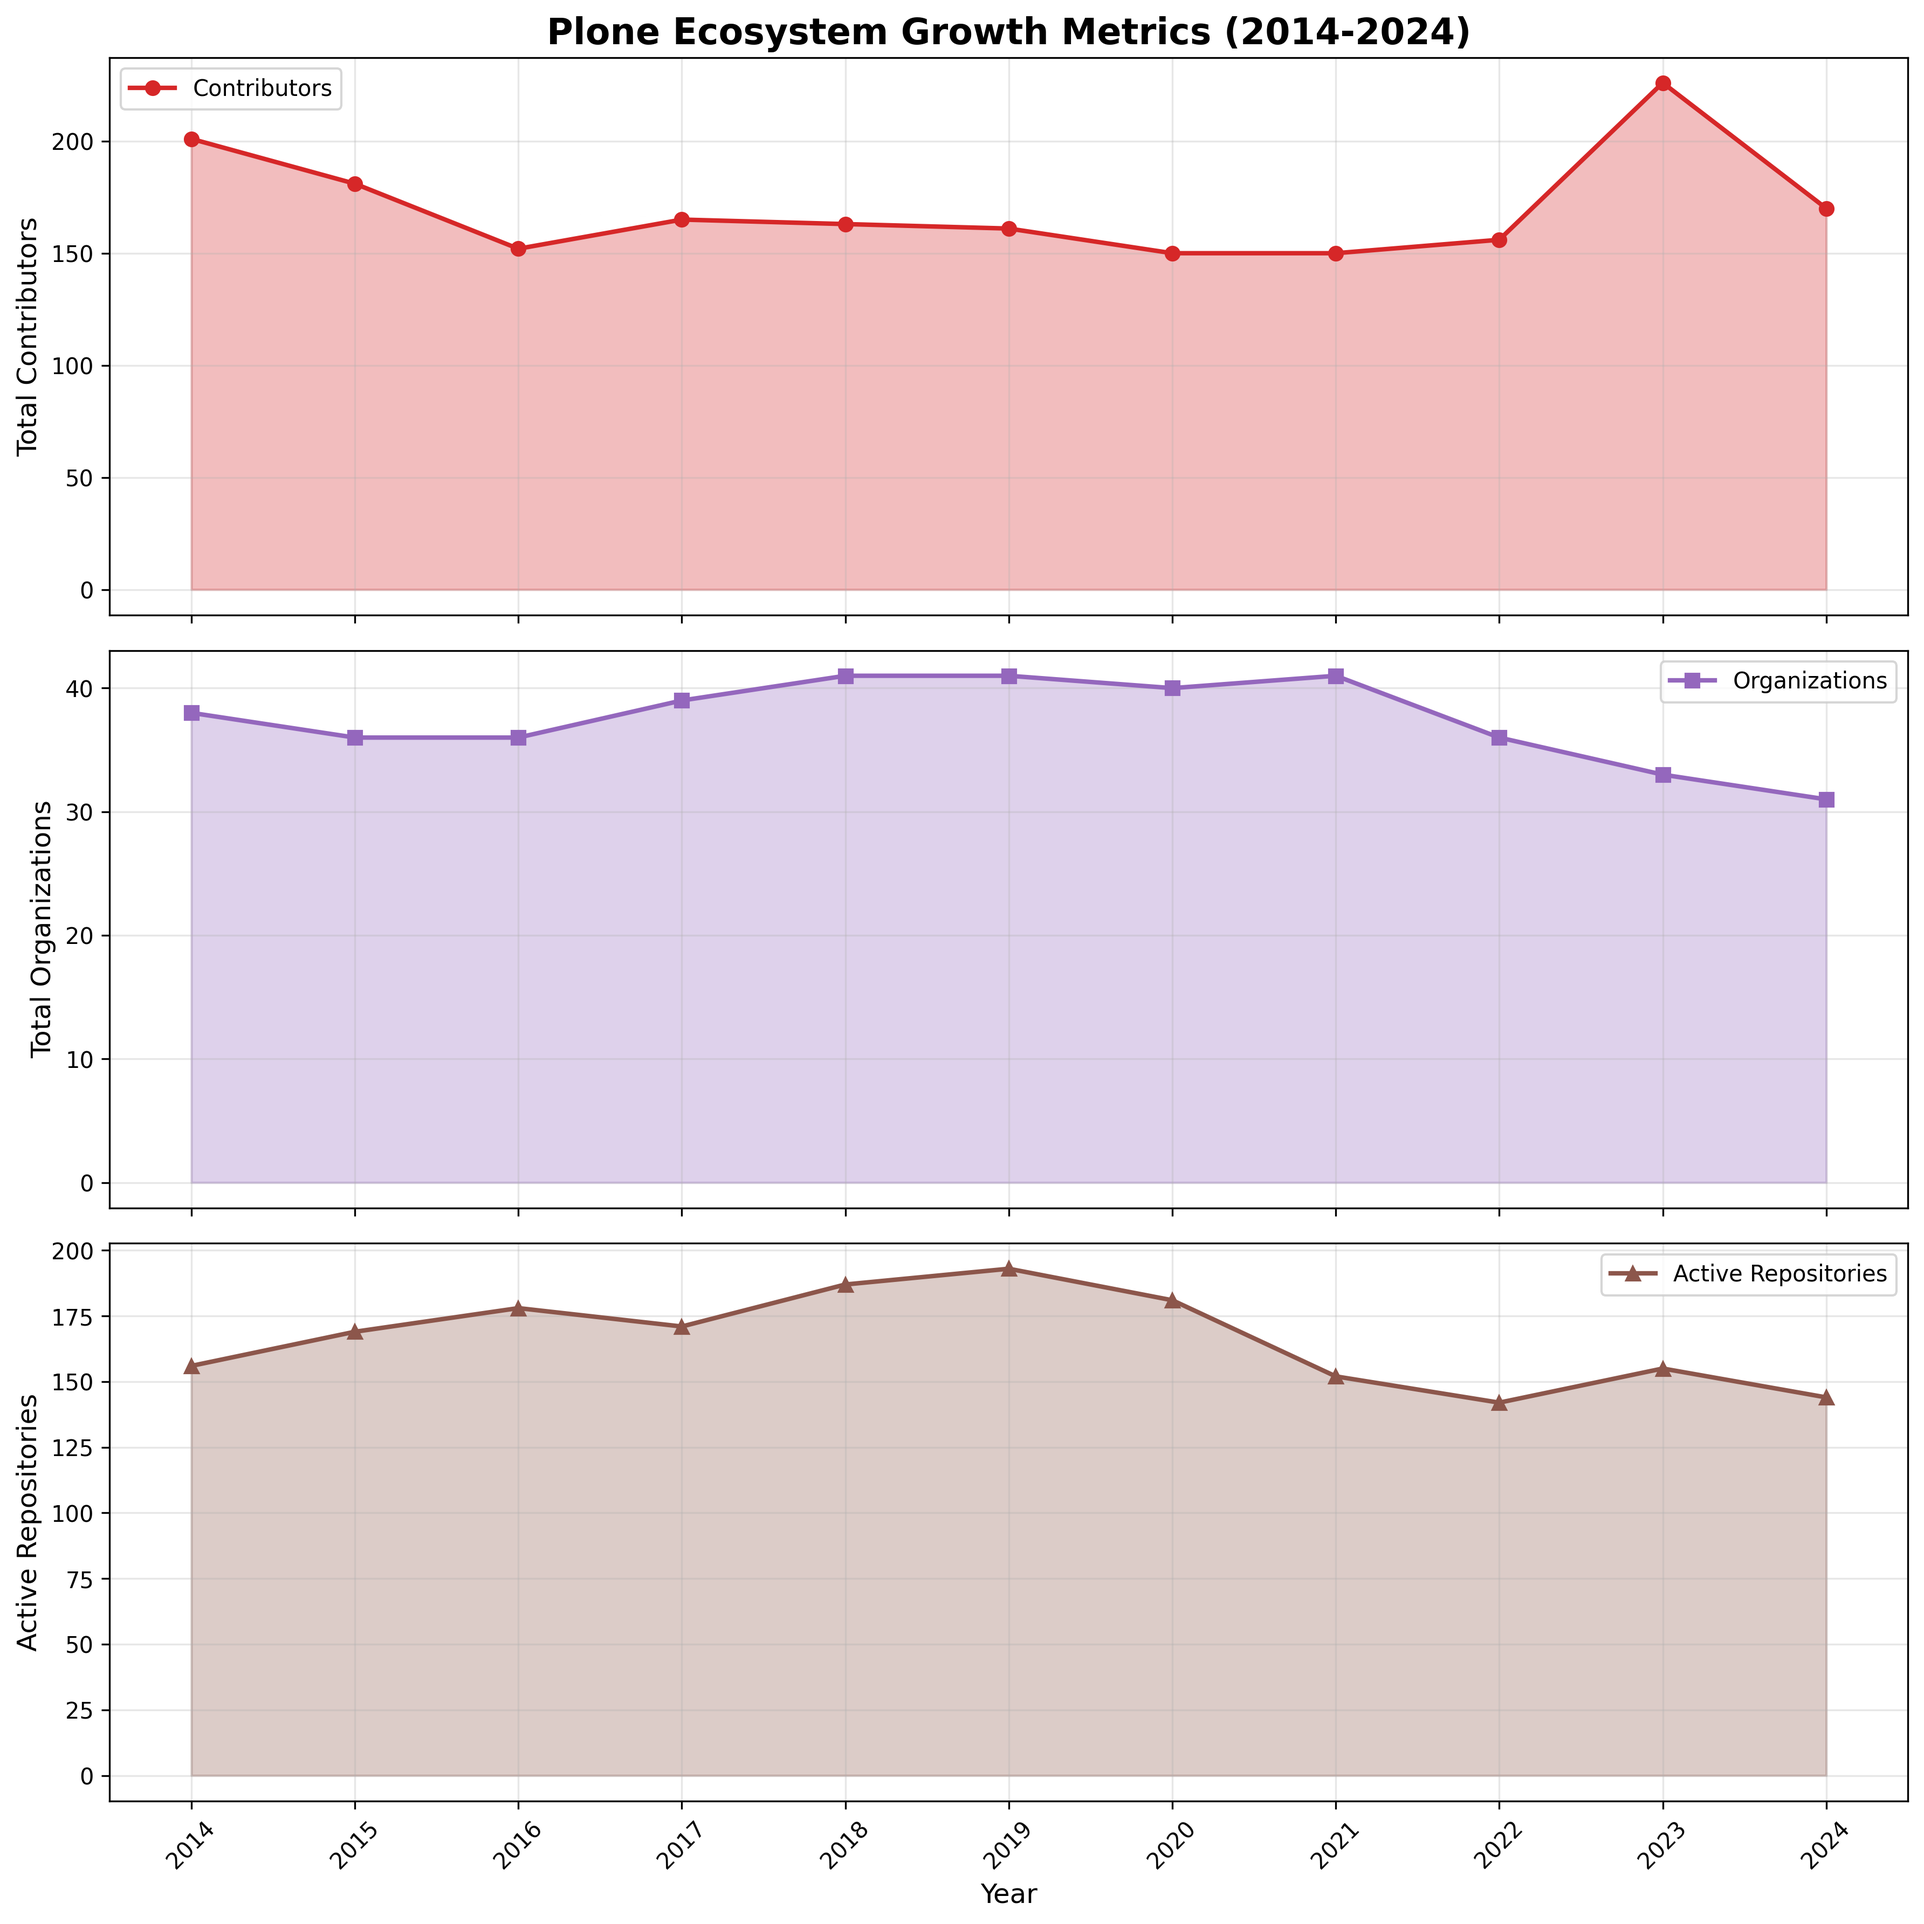
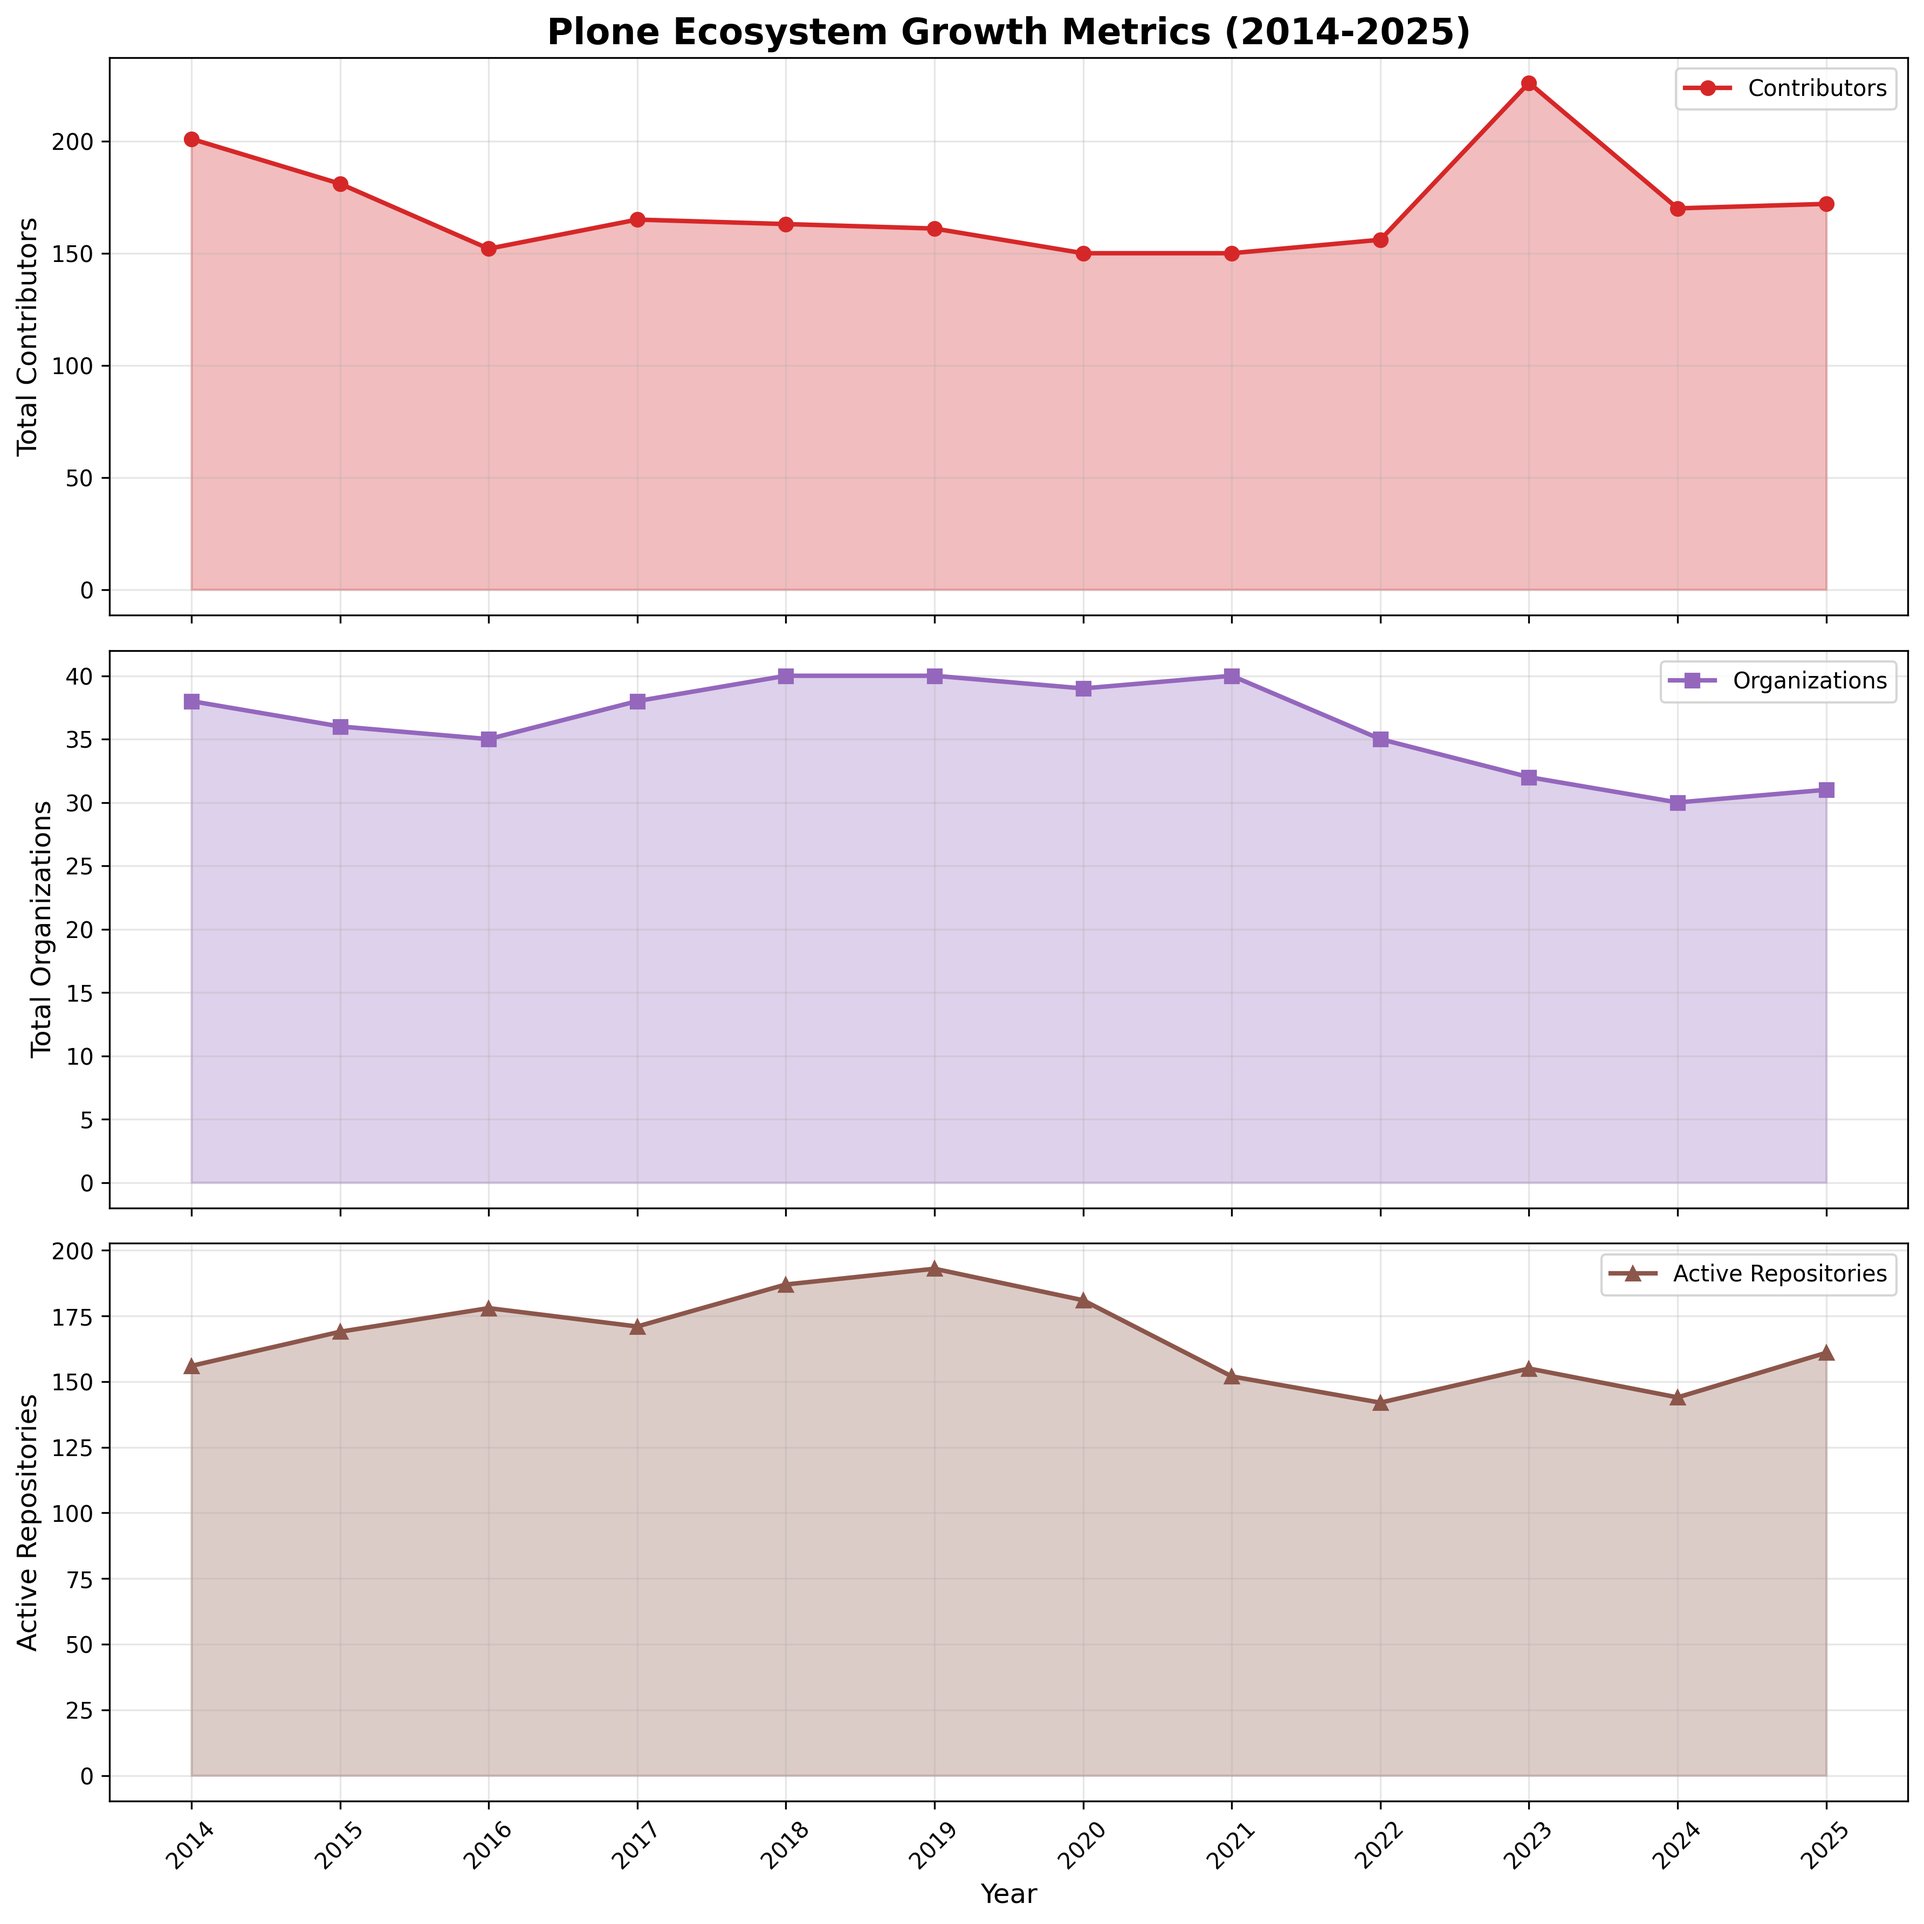
Add misssing scripts to generate yearly-graphs and update the graphs folder output

diff --git a/generate_yearly_graphs.py b/generate_yearly_graphs.py
@@ -56,26 +56,27 @@ def load_yearly_data():
     
     df = pd.read_csv(csv_file)
     df['year_date'] = pd.to_datetime(df['year'], format='%Y')
-    
-    # Filter to only include years 2014-2024
-    df = df[(df['year'] >= 2014) & (df['year'] <= 2024)]
-    
+
+    # Filter to only include years 2014 onwards
+    df = df[df['year'] >= 2014]
+
     return df
 
 
 def create_commits_trend_graph(df, output_dir="graphs"):
     """Create commits trend graph."""
     Path(output_dir).mkdir(exist_ok=True)
-    
+    year_range = f"{df['year'].min()}-{df['year'].max()}"
+
     fig, ax = plt.subplots(figsize=(12, 8))
-    
+
     # Commits trend
-    ax.plot(df['year'], df['total_commits'], marker='o', linewidth=3, markersize=8, 
+    ax.plot(df['year'], df['total_commits'], marker='o', linewidth=3, markersize=8,
              color='#1f77b4', label='Total Commits')
     ax.fill_between(df['year'], df['total_commits'], alpha=0.3, color='#1f77b4')
     ax.set_ylabel('Total Commits', fontsize=14)
     ax.set_xlabel('Year', fontsize=14)
-    ax.set_title('Plone Ecosystem - Commits Over Time (2014-2024)', fontsize=16, fontweight='bold')
+    ax.set_title(f'Plone Ecosystem - Commits Over Time ({year_range})', fontsize=16, fontweight='bold')
     ax.grid(True, alpha=0.3)
     ax.legend(fontsize=12)
     
@@ -125,16 +126,17 @@ def create_commits_trend_graph(df, output_dir="graphs"):
 def create_prs_trend_graph(df, output_dir="graphs"):
     """Create pull requests trend graph."""
     Path(output_dir).mkdir(exist_ok=True)
-    
+    year_range = f"{df['year'].min()}-{df['year'].max()}"
+
     fig, ax = plt.subplots(figsize=(12, 8))
-    
+
     # PRs trend
-    ax.plot(df['year'], df['total_pull_requests'], marker='s', linewidth=3, markersize=8, 
+    ax.plot(df['year'], df['total_pull_requests'], marker='s', linewidth=3, markersize=8,
              color='#ff7f0e', label='Total Pull Requests')
     ax.fill_between(df['year'], df['total_pull_requests'], alpha=0.3, color='#ff7f0e')
     ax.set_ylabel('Total Pull Requests', fontsize=14)
     ax.set_xlabel('Year', fontsize=14)
-    ax.set_title('Plone Ecosystem - Pull Requests Over Time (2014-2024)', fontsize=16, fontweight='bold')
+    ax.set_title(f'Plone Ecosystem - Pull Requests Over Time ({year_range})', fontsize=16, fontweight='bold')
     ax.grid(True, alpha=0.3)
     ax.legend(fontsize=12)
     
@@ -190,15 +192,16 @@ def create_prs_trend_graph(df, output_dir="graphs"):
 def create_commits_prs_trend_graph(df, output_dir="graphs"):
     """Create combined commits and PRs trend graph."""
     Path(output_dir).mkdir(exist_ok=True)
-    
+    year_range = f"{df['year'].min()}-{df['year'].max()}"
+
     fig, (ax1, ax2) = plt.subplots(2, 1, figsize=(12, 10), sharex=True)
-    
+
     # Commits trend
-    ax1.plot(df['year'], df['total_commits'], marker='o', linewidth=2, markersize=6, 
+    ax1.plot(df['year'], df['total_commits'], marker='o', linewidth=2, markersize=6,
              color='#1f77b4', label='Commits')
     ax1.fill_between(df['year'], df['total_commits'], alpha=0.3, color='#1f77b4')
     ax1.set_ylabel('Total Commits')
-    ax1.set_title('Plone Ecosystem Development Activity (2014-2024)', fontsize=16, fontweight='bold')
+    ax1.set_title(f'Plone Ecosystem Development Activity ({year_range})', fontsize=16, fontweight='bold')
     ax1.grid(True, alpha=0.3)
     ax1.legend()
     
@@ -274,7 +277,8 @@ def create_pr_adoption_graph(df, output_dir="graphs"):
     
     ax.set_ylabel('PR/Commit Ratio (%)')
     ax.set_xlabel('Year')
-    ax.set_title('Pull Request Adoption in Plone Development (2014-2024)', 
+    year_range = f"{df['year'].min()}-{df['year'].max()}"
+    ax.set_title(f'Pull Request Adoption in Plone Development ({year_range})',
                 fontsize=16, fontweight='bold')
     ax.grid(True, alpha=0.3)
     ax.legend()
@@ -314,15 +318,16 @@ def create_pr_adoption_graph(df, output_dir="graphs"):
 def create_ecosystem_growth_graph(df, output_dir="graphs"):
     """Create ecosystem growth graph (contributors, orgs, repos)."""
     Path(output_dir).mkdir(exist_ok=True)
-    
+    year_range = f"{df['year'].min()}-{df['year'].max()}"
+
     fig, (ax1, ax2, ax3) = plt.subplots(3, 1, figsize=(12, 12), sharex=True)
-    
+
     # Contributors
-    ax1.plot(df['year'], df['total_contributors'], marker='o', linewidth=2, markersize=6, 
+    ax1.plot(df['year'], df['total_contributors'], marker='o', linewidth=2, markersize=6,
              color='#d62728', label='Contributors')
     ax1.fill_between(df['year'], df['total_contributors'], alpha=0.3, color='#d62728')
     ax1.set_ylabel('Total Contributors')
-    ax1.set_title('Plone Ecosystem Growth Metrics (2014-2024)', fontsize=16, fontweight='bold')
+    ax1.set_title(f'Plone Ecosystem Growth Metrics ({year_range})', fontsize=16, fontweight='bold')
     ax1.grid(True, alpha=0.3)
     ax1.legend()
     
@@ -377,7 +382,8 @@ def create_growth_rates_heatmap(df, output_dir="graphs"):
     sns.heatmap(growth_data, annot=True, fmt='.1f', cmap='RdYlGn', center=0, 
                 ax=ax, cbar_kws={'label': 'Growth Rate (%)'})
     
-    ax.set_title('Year-over-Year Growth Rates in Plone Development (2015-2024)', 
+    growth_year_range = f"{int(growth_data.columns.min())}-{int(growth_data.columns.max())}"
+    ax.set_title(f'Year-over-Year Growth Rates in Plone Development ({growth_year_range})',
                 fontsize=16, fontweight='bold')
     ax.set_xlabel('Year')
     ax.set_ylabel('Metric')
@@ -394,15 +400,16 @@ def create_growth_rates_heatmap(df, output_dir="graphs"):
 def create_productivity_metrics_graph(df, output_dir="graphs"):
     """Create productivity metrics graph."""
     Path(output_dir).mkdir(exist_ok=True)
-    
+    year_range = f"{df['year'].min()}-{df['year'].max()}"
+
     fig, (ax1, ax2) = plt.subplots(2, 1, figsize=(12, 10), sharex=True)
-    
+
     # Commits per contributor
-    ax1.plot(df['year'], df['commits_per_contributor'], marker='o', linewidth=2, markersize=6, 
+    ax1.plot(df['year'], df['commits_per_contributor'], marker='o', linewidth=2, markersize=6,
              color='#17becf', label='Commits per Contributor')
     ax1.fill_between(df['year'], df['commits_per_contributor'], alpha=0.3, color='#17becf')
     ax1.set_ylabel('Commits per Contributor')
-    ax1.set_title('Developer Productivity Metrics (2014-2024)', fontsize=16, fontweight='bold')
+    ax1.set_title(f'Developer Productivity Metrics ({year_range})', fontsize=16, fontweight='bold')
     ax1.grid(True, alpha=0.3)
     ax1.legend()
     
@@ -500,7 +507,8 @@ def create_combined_overview_graph(df, output_dir="graphs"):
         ax.set_xticklabels(years, rotation=45)
     
     # Main title
-    fig.suptitle('Plone Ecosystem Development Overview (2014-2024)', 
+    year_range = f"{df['year'].min()}-{df['year'].max()}"
+    fig.suptitle(f'Plone Ecosystem Development Overview ({year_range})',
                 fontsize=18, fontweight='bold', y=0.98)
     
     output_file = f"{output_dir}/yearly_activity_overview.png"

diff --git a/yearly_activity_analysis.py b/yearly_activity_analysis.py
@@ -1,0 +1,102 @@
+#!/usr/bin/env python3
+"""
+Yearly Activity Analysis for Plone GitHub Statistics
+
+Aggregates per-year contributor and organisation CSV files into a single
+yearly-activity-statistics.csv for use by the graph generator.
+"""
+
+import pandas as pd
+from pathlib import Path
+import glob
+
+
+def main():
+    print("Plone Yearly Activity Analysis")
+    print("=" * 40)
+
+    rows = []
+
+    # Find all yearly contributor CSV files
+    contributor_files = sorted(glob.glob("[0-9][0-9][0-9][0-9]-plone-contributors.csv"))
+
+    if not contributor_files:
+        print("No yearly contributor CSV files found!")
+        return 1
+
+    for contrib_file in contributor_files:
+        year = int(Path(contrib_file).name.split("-")[0])
+        org_file = f"{year}-plone-organisation-contributors.csv"
+
+        # Load contributor data
+        try:
+            contrib_df = pd.read_csv(contrib_file)
+        except Exception as e:
+            print(f"  Skipping {year}: error reading {contrib_file}: {e}")
+            continue
+
+        total_commits = int(contrib_df["total_commits"].sum())
+        total_prs = int(contrib_df["total_pull_requests"].sum())
+        total_contributors = len(contrib_df)
+
+        # Count unique repositories across all contributors
+        unique_repos = set()
+        for repos_str in contrib_df["repositories"].dropna():
+            for repo in str(repos_str).split(", "):
+                repo = repo.strip()
+                if repo:
+                    unique_repos.add(repo)
+
+        # Load organisation data if available
+        total_orgs = 0
+        if Path(org_file).exists():
+            try:
+                org_df = pd.read_csv(org_file)
+                total_orgs = len(org_df)
+            except Exception:
+                pass
+
+        pr_to_commit_ratio = (total_prs / total_commits * 100) if total_commits > 0 else 0
+        commits_per_contributor = (total_commits / total_contributors) if total_contributors > 0 else 0
+        prs_per_contributor = (total_prs / total_contributors) if total_contributors > 0 else 0
+
+        rows.append({
+            "year": year,
+            "total_commits": total_commits,
+            "total_pull_requests": total_prs,
+            "total_contributors": total_contributors,
+            "total_organisations": total_orgs,
+            "unique_repositories": len(unique_repos),
+            "pr_to_commit_ratio": round(pr_to_commit_ratio, 2),
+            "commits_per_contributor": round(commits_per_contributor, 2),
+            "prs_per_contributor": round(prs_per_contributor, 2),
+        })
+
+        print(f"  {year}: {total_commits} commits, {total_prs} PRs, "
+              f"{total_contributors} contributors, {total_orgs} orgs, "
+              f"{len(unique_repos)} repos")
+
+    df = pd.DataFrame(rows)
+    df = df.sort_values("year")
+
+    # Calculate year-over-year growth rates
+    df["commits_growth"] = df["total_commits"].pct_change() * 100
+    df["prs_growth"] = df["total_pull_requests"].pct_change() * 100
+    df["contributors_growth"] = df["total_contributors"].pct_change() * 100
+    df["orgs_growth"] = df["total_organisations"].pct_change() * 100
+
+    # Round growth rates
+    for col in ["commits_growth", "prs_growth", "contributors_growth", "orgs_growth"]:
+        df[col] = df[col].round(1)
+
+    output_file = "yearly-activity-statistics.csv"
+    df.to_csv(output_file, index=False)
+
+    print(f"\nSaved {len(df)} years of data to {output_file}")
+    print(f"Year range: {df['year'].min()}-{df['year'].max()}")
+
+    return 0
+
+
+if __name__ == "__main__":
+    exit(main())
